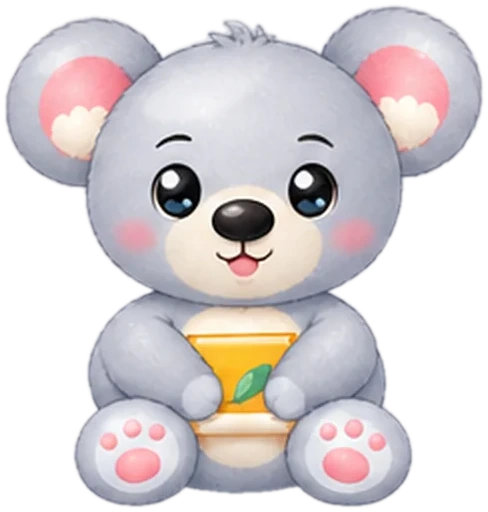
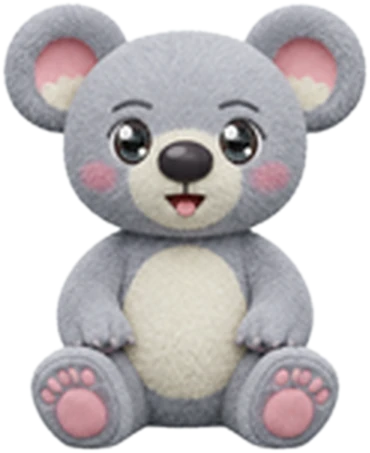
Koala house: new Canva-made sit, back-sit and reading koala pictures
- Sit picture matches the fluffy 3D koala; chairs beside a desk/table seat the koala facing it (back view)
- Reading at a bookshelf uses a side-view koala holding a book
- Bump service worker cache to v91

Claude-Session: https://claude.ai/code/session_01K1pjdAfu4qHV4YSnomEjYQ

diff --git a/public/js/koala-house-ui.js b/public/js/koala-house-ui.js
@@ -88,7 +88,7 @@
     fetch("/img/house/manifest.json").then((r) => (r.ok ? r.json() : {})).then((m) => {
       if (!ses || !m || !Object.keys(m).length) return;
       H.setManifest(m);
-      extraImg = { back: m["koala:back"] && m["koala:back"].src, sit: m["koala:sit"] && m["koala:sit"].src };
+      extraImg = { back: m["koala:back"] && m["koala:back"].src, sit: m["koala:sit"] && m["koala:sit"].src, sitback: m["koala:sitback"] && m["koala:sitback"].src, read: m["koala:read"] && m["koala:read"].src };
       if (ses.screen === "room") drawScene(); else renderPlan();
     }).catch(() => {});
   }
@@ -285,16 +285,17 @@
     const one = (src) => { const b = KBOX.base; return `<image href="${src}" x="${b[0]}" y="${b[1]}" width="${b[2] - b[0]}" height="${b[3] - b[1]}"/>`; };
     const stand = `<svg class="kh-kstand" x="-27" y="-82" width="54" height="85" viewBox="64 100 553 868" overflow="hidden">${imgs}</svg>`;
     const back = extraImg.back ? `<svg class="kh-kback" x="-27" y="-82" width="54" height="85" viewBox="64 100 553 868" overflow="hidden" display="none">${one(extraImg.back)}</svg>` : "";
-    // the sitting koala is its own picture (img/koala/sit.webp, or "koala:sit" in the manifest)
-    const sit = `<image class="kh-ksit" href="${extraImg.sit || kimg("sit")}" x="-26" y="-56" width="52" height="${(52 * 512 / 488).toFixed(1)}" preserveAspectRatio="xMidYMax meet" display="none"/>`;
-    // reading / watering: a picture of its own when the manifest has one ("koala:read", "koala:water"), else the standing koala holding a prop
+    // sitting / reading koalas are pictures of their own (img/koala/*.webp; "koala:sit", "koala:sitback", "koala:read" in the manifest override them)
+    const own = (cls, src, w, h, bottom) => `<image class="${cls}" href="${src}" x="${-w / 2}" y="${(bottom - h).toFixed(1)}" width="${w}" height="${h}" preserveAspectRatio="xMidYMax meet" display="none"/>`;
+    const sit = own("kh-ksit", extraImg.sit || kimg("sit"), 40, 49, 0) + own("kh-ksitback", extraImg.sitback || kimg("sitback"), 38, 45.5, 0);
+    const readImg = own("kh-kreadimg", extraImg.read || kimg("read"), 44, 68, 3);
     const pose = (cls, src) => (src ? `<svg class="${cls}" x="-27" y="-82" width="54" height="85" viewBox="64 100 553 868" overflow="hidden" display="none">${one(src)}</svg>` : "");
     const book = `<g class="kh-kread" display="none"><path d="M-13 -35 0 -31.5 13 -35 13 -21 0 -17.5 -13 -21Z" fill="#e0674f" stroke="#b44a37" stroke-width="1.2" stroke-linejoin="round"/><path d="M-11 -33.6 0 -30.4V-19.4L-11 -22.6Z" fill="#fffaf0"/><path d="M11 -33.6 0 -30.4V-19.4L11 -22.6Z" fill="#f6efe0"/><path d="M-8.5 -29.5 -3 -27.9M-8.5 -26 -3 -24.4M8.5 -29.5 3 -27.9M8.5 -26 3 -24.4" stroke="#cdbb9a" stroke-width="1" stroke-linecap="round"/><path d="M0 -30.4V-19.4" stroke="#b44a37" stroke-width="1.2"/>
       <path d="M4 -31 9 -33.2 9 -22 4 -19.8Z" fill="#fffaf0" opacity="0"><animate attributeName="opacity" values="0;0.95;0" dur="3.2s" repeatCount="indefinite"/></path></g>`;
     const can = `<g class="kh-kwater" display="none"><g><animateTransform attributeName="transform" type="rotate" values="0 17 -30;-20 17 -30;-20 17 -30;0 17 -30" keyTimes="0;.3;.8;1" dur="2.6s" repeatCount="indefinite"/>
       <path d="M10 -37q-8 1-7 9" fill="none" stroke="#3b86b8" stroke-width="2.2" stroke-linecap="round"/><rect x="9" y="-38" width="16" height="12" rx="3" fill="#7cc4ee" stroke="#3b86b8" stroke-width="1.3"/><path d="M24 -32 33 -40" stroke="#3b86b8" stroke-width="2.6" stroke-linecap="round"/><path d="M31 -44 37 -40.5 32 -37Z" fill="#3b86b8"/><rect x="11" y="-36" width="4" height="8" rx="1.5" fill="#fff" opacity=".45"/></g>
       <g fill="#8fd3f5"><circle cx="38" cy="-32" r="1.6"><animate attributeName="cy" values="-36;-14" dur=".9s" repeatCount="indefinite"/><animate attributeName="opacity" values="0;1;0" dur=".9s" repeatCount="indefinite"/></circle><circle cx="34" cy="-33" r="1.4"><animate attributeName="cy" values="-36;-14" dur=".9s" begin=".3s" repeatCount="indefinite"/><animate attributeName="opacity" values="0;1;0" dur=".9s" begin=".3s" repeatCount="indefinite"/></circle><circle cx="41" cy="-33" r="1.4"><animate attributeName="cy" values="-36;-14" dur=".9s" begin=".6s" repeatCount="indefinite"/><animate attributeName="opacity" values="0;1;0" dur=".9s" begin=".6s" repeatCount="indefinite"/></circle></g></g>`;
-    return `<g class="kh-koala" data-k="0"><ellipse class="kh-kshadow" cx="0" cy="2" rx="24" ry="8" fill="#000" opacity=".16"/><g class="kh-kbody"><g class="kh-kflip">${stand}${back}${sit}${pose("kh-kreadimg", extraImg.read)}${pose("kh-kwaterimg", extraImg.water)}${book}${can}</g></g></g>`;
+    return `<g class="kh-koala" data-k="0"><ellipse class="kh-kshadow" cx="0" cy="2" rx="24" ry="8" fill="#000" opacity=".16"/><g class="kh-kbody"><g class="kh-kflip">${stand}${back}${sit}${readImg}${pose("kh-kwaterimg", extraImg.water)}${book}${can}</g></g></g>`;
   }
   const FLIP = [-1, 1, 1, -1]; // facing 0 (+r, left-down) 1 (+c, right-down) 2 (-r, right-up) 3 (-c, left-up)
   function koalaCellFree(c, r) {
@@ -319,10 +320,10 @@
     const k = ses.koala, [x, y] = H.proj(k.c + 0.5, k.r + 0.5, k.z || 0);
     g.setAttribute("transform", `translate(${x.toFixed(1)} ${y.toFixed(1)})`);
     const sit = k.pose === "sit", rd = k.pose === "read", wt = k.pose === "water", away = k.dir === 2 || k.dir === 3, hasBack = !!g.querySelector(".kh-kback");
-    const hasRd = !!g.querySelector(".kh-kreadimg"), hasWt = !!g.querySelector(".kh-kwaterimg");
+    const hasRd = true, hasWt = !!g.querySelector(".kh-kwaterimg");
     const show = (sel, on) => { const e = g.querySelector(sel); if (e) e.setAttribute("display", on ? "inline" : "none"); };
-    show(".kh-kstand", !sit && !(rd && hasRd) && !(wt && hasWt) && !(k.pose === "stand" && away && hasBack)); show(".kh-kback", k.pose === "stand" && away && hasBack); show(".kh-ksit", sit);
-    show(".kh-kreadimg", rd); show(".kh-kwaterimg", wt); show(".kh-kread", rd && !hasRd); show(".kh-kwater", wt && !hasWt);
+    show(".kh-kstand", !sit && !(rd && hasRd) && !(wt && hasWt) && !(k.pose === "stand" && away && hasBack)); show(".kh-kback", k.pose === "stand" && away && hasBack); show(".kh-ksit", sit && !away); show(".kh-ksitback", sit && away);
+    show(".kh-kreadimg", rd); show(".kh-kwaterimg", wt); show(".kh-kread", false); show(".kh-kwater", wt && !hasWt);
     g.querySelector(".kh-kbody").setAttribute("transform", `translate(0 ${(-Math.abs(Math.sin(k.bob)) * (k.pose === "stand" ? 4 : 1.2)).toFixed(1)})`);
     g.querySelector(".kh-kflip").setAttribute("transform", `scale(${FLIP[k.dir]} 1)`);
     g.querySelector(".kh-kshadow").setAttribute("opacity", (k.z ? 0 : 0.16));
@@ -347,10 +348,19 @@
     return null;
   }
   // sit down: on a seat piece (chair / sofa / bench), or on the floor
+  // a chair with a desk or table right beside it: the koala sits facing it (so you see its back)
+  function deskDir(cell) {
+    const st = curState();
+    for (const [dc, dr, dir] of [[0, -1, 2], [-1, 0, 3], [1, 0, 1], [0, 1, 0]]) {
+      const hit = (st.items || []).find((i) => /desk|table/i.test(i.id) && H.cellsOf(i).includes((cell[0] + dc) + "," + (cell[1] + dr)));
+      if (hit) return dir;
+    }
+    return null;
+  }
   function sitOn(seatItem, cell, exitCell) {
     const k = ses.koala;
     k.pose = "sit"; k.path = []; k.after = null; k.sitT = 4 + Math.random() * 5;
-    if (seatItem) { const d = H.D[seatItem.id]; k.c = cell[0]; k.r = cell[1]; k.z = d.seat; k.seat = seatItem.uid; k.dir = H.seatFacing(seatItem); k.exit = exitCell || null; }
+    if (seatItem) { const d = H.D[seatItem.id]; k.c = cell[0]; k.r = cell[1]; k.z = d.seat; k.seat = seatItem.uid; k.dir = H.seatFacing(seatItem); if (!(seatItem.m | 0)) { const dk = deskDir(cell); if (dk != null) k.dir = dk; } k.exit = exitCell || null; }
     else { k.z = 0; k.seat = null; k.exit = null; }
   }
   function standUp(quiet) {

diff --git a/public/sw.js b/public/sw.js
@@ -3,7 +3,7 @@
      shows up immediately; the cached copy is used only when offline.
    - /api/* is never cached (logins, shared words, sync always go to the server).
    - Google Fonts: stale-while-revalidate. Bump CACHE when the list changes. */
-const CACHE = "koala-study-v90";
+const CACHE = "koala-study-v91";
 const PRECACHE = [
   "/", "/index.html", "/css/style.css", "/css/themes.css", "/css/admin.css", "/js/app.js", "/js/support.js",
   "/js/faq.js", "/js/admin-cs.js", "/js/koala-core.js", "/js/quiz-core.js", "/js/koala-art.js", "/js/koala-house.js", "/js/koala-house-ui.js", "/css/koala-house.css", "/js/words.js", "/js/words_ko.js",
